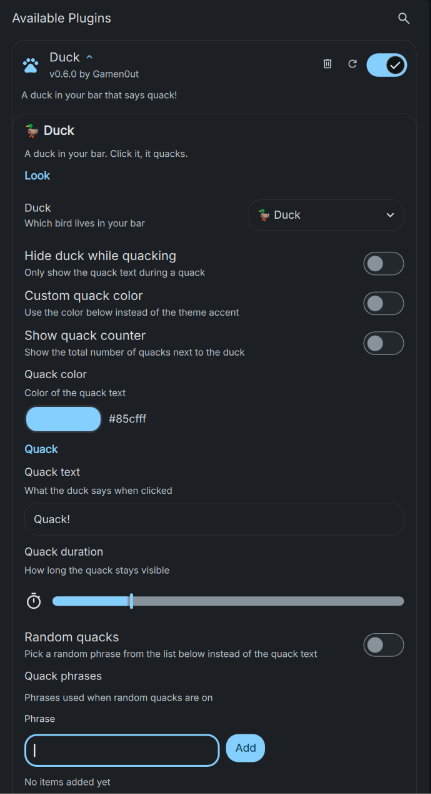
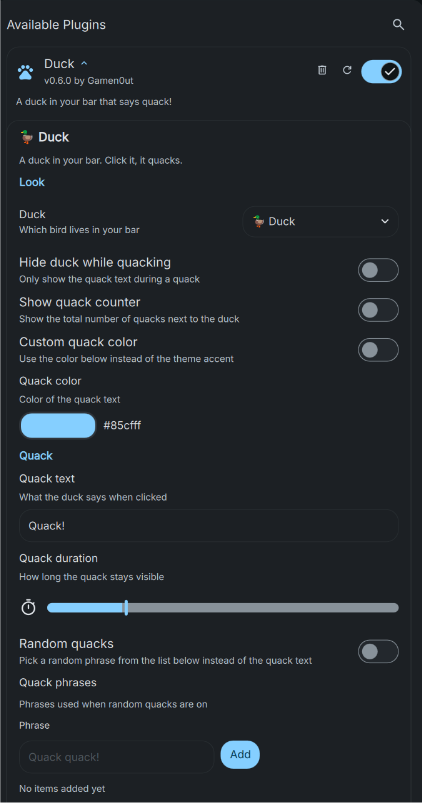
docs: add the pond GIF and retaken screenshots
The README now opens with a GIF of the fixed pond (cropped to the
popout). screenshot.png, the still image registries use, is a frame of
it, so it no longer shows the old overlapping birds. Settings parts 1
and 3 are retaken: new option order, and real stats instead of a reset.

diff --git a/README.md b/README.md
@@ -3,7 +3,7 @@
 A tiny [DankMaterialShell](https://github.com/AvengeMedia/DankMaterialShell) bar widget: a duck that says **quack** when you click it.
 
 <p align="center">
-  <img src="screenshot.png" width="300" alt="Duck's popout: a big mallard, quack stats and a pond full of swimming birds">
+  <img src="screenshots/pond.gif" width="300" alt="Duck's popout: a big chick, quack stats and a pond of birds swimming back and forth">
 </p>
 
 Duck is a playground plugin: a place to try out the DMS plugin API before building bigger plugins. See [ROADMAP.md](ROADMAP.md) for what's planned.
@@ -109,7 +109,7 @@ Duck/
 ├── AchievementList.qml # achievement list (settings + popout)
 ├── Pond.qml           # the popout's animated pond
 ├── tests/             # node unit tests: for f in tests/*.test.js; do node $f; done
-├── screenshot.png     # main image (README, plugin registry)
+├── screenshot.png     # main still image (plugin registry)
 ├── screenshots/       # README images
 ├── dev.sh             # dev helper (link / reload / status / release)
 ├── CHANGELOG.md
